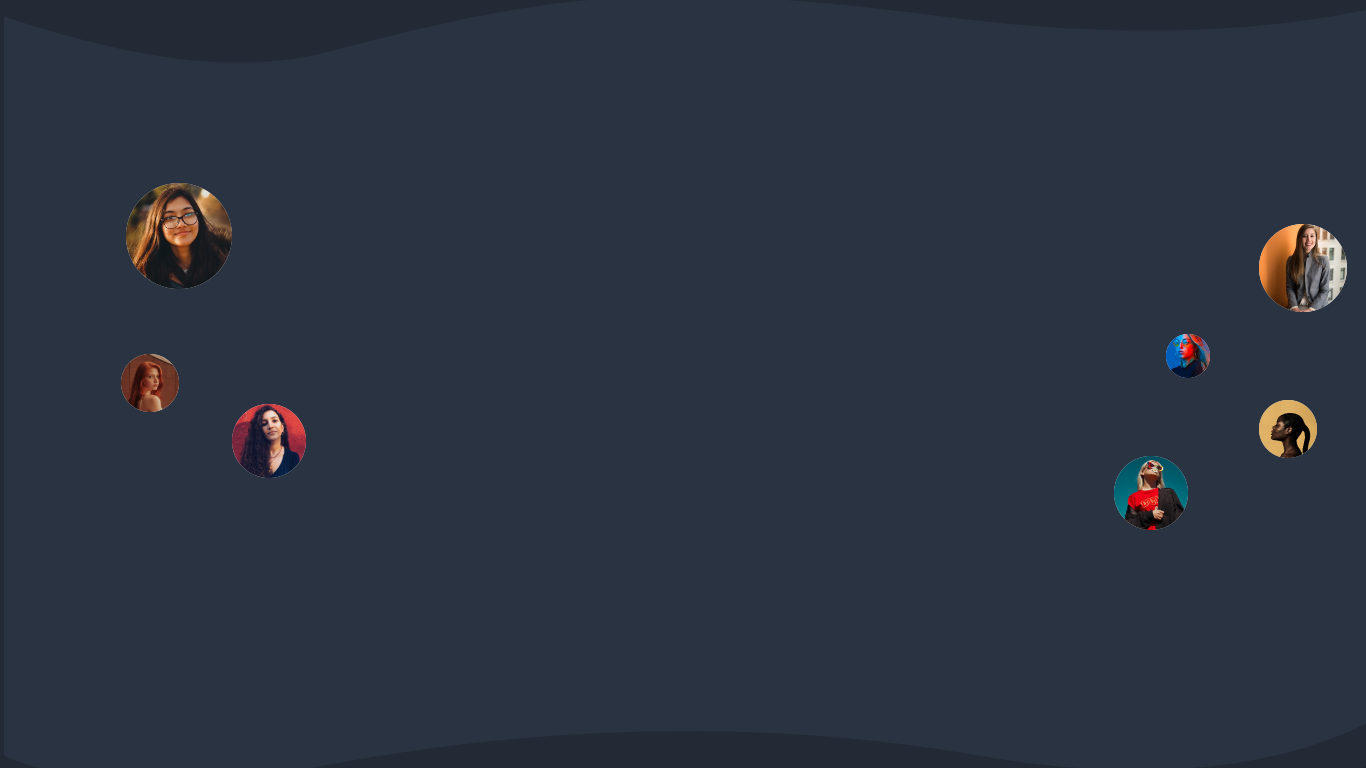
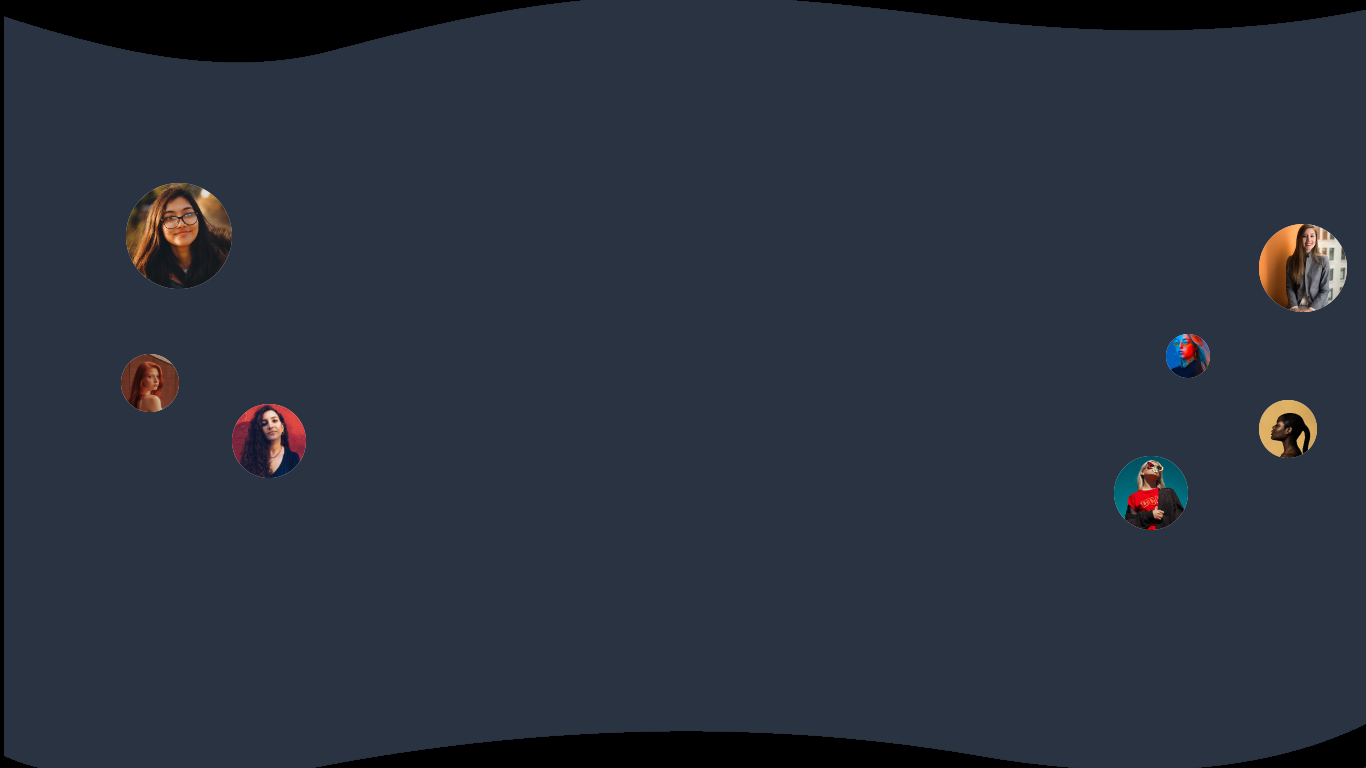
ATUALIZAÇAO

diff --git a/src/components/slideDepoimento/SliderDepoimento.style.ts b/src/components/slideDepoimento/SliderDepoimento.style.ts
@@ -3,7 +3,9 @@ import styled from "styled-components";
 
 export const SliderD = styled.div`
 
-background-image: url("src/assets/images/backgroundDep.png") !important;
+background-image: url("src/assets/images/backgroundDep.png");
+
+background-size: cover;
 
   margin: 0 auto;
   display: flex;
@@ -13,9 +15,10 @@ background-image: url("src/assets/images/backgroundDep.png") !important;
   height: 100%;
 
   .swiper {
-    width: 70%;
+    width: 50%;
     height: 60%;
     margin: 0 auto;
+    display : block;
     
     
   }
@@ -45,10 +48,10 @@ background-image: url("src/assets/images/backgroundDep.png") !important;
     height: 100%;
     img {
       overflow: hidden;
-      border: 3px solid #6c5ece;
+      border: 2px solid #6c5ece;
       border-radius: 50%;
-      width: 88px;
-      height: 88px;
+      width: 90px;
+      height: 90px;
       margin-right: 0px;
     }
   }
@@ -79,7 +82,7 @@ export const Informacoes = styled.div`
   }
 `;
 export const Depoimento = styled.div`
-  width: 640px;
+  width: 540px;
   height: 114px;
   margin-bottom: 40px;
   h3 {

diff --git a/src/components/footer/Footer.style.ts b/src/components/footer/Footer.style.ts
@@ -3,15 +3,16 @@ import styled from "styled-components";
 export const Barra = styled.footer`
 width: 100%;
 height: 200px;
-margin-top: 10px;
 background: #6C5ECE;
+border: 1px solid ;
+border-top: 34px solid #1e1e1e;
 
 ul{
     text-align: end;
     color: #fff;
     flex: 1;
     padding: 10px;
-    padding-top: 100px;
+    padding-top: 70px;
     padding-right:40px;
 }
 `
